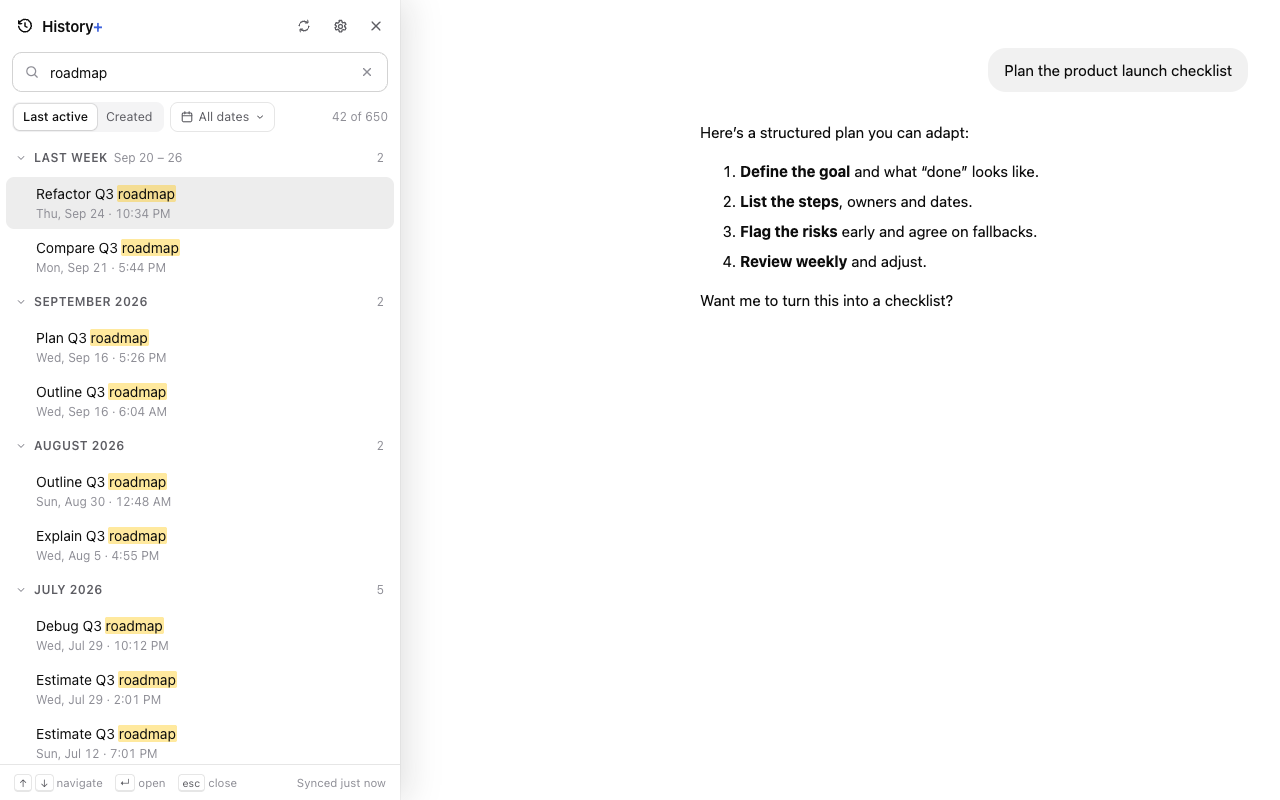
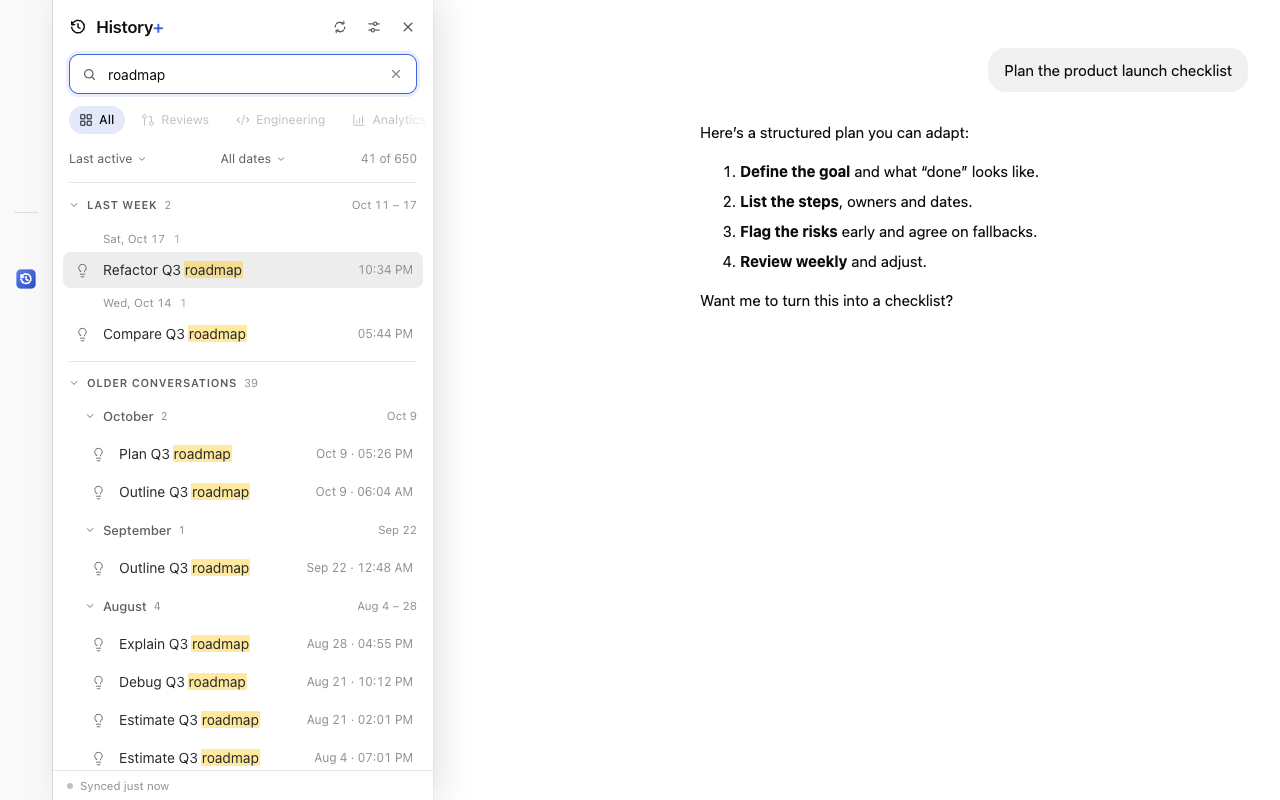
Release v0.2.0
- Bump the version to 0.2.0 (category filters, 12/24-hour times, the
  regrouped list and sharper category icons). The manifest differs from
  0.1.1 only in its version: same permissions and host access.
- Regenerate the Web Store screenshots and marquee tile from the new design,
  with synthetic data only.
- Store asset script: wait for hover fades after moving the pointer off the
  panel, so no chip looks half-selected in the timeline shot.
- Listing: describe "Older conversations", the category filters and the
  12/24-hour option; the reviewer notes now point at the sliders icon for
  Settings.

diff --git a/tests/e2e/store-assets.spec.ts b/tests/e2e/store-assets.spec.ts
@@ -16,7 +16,9 @@ test('screenshots (1280x800)', async ({ page, server }) => {
   await page.goto(`https://chatgpt.com/c/${recent.id}`)
   await openPanel(page)
   await waitForSync(page, 650)
+  // The panel opens under the pointer; move it off and let hover fades finish, so no chip looks half-selected.
   await page.mouse.move(1000, 700)
+  await page.waitForTimeout(300)
   await page.screenshot({ path: out('screenshot-1-timeline.png') })
 
   await search(page).fill('roadmap')

diff --git a/store/LISTING.md b/store/LISTING.md
@@ -31,10 +31,11 @@ Find any old ChatGPT conversation by when it happened.
 You remember discussing something "around the third week of August" but not what the chat was called. ChatGPT's sidebar keeps only recent chats close at hand, and its search needs the right words. History+ adds the missing piece: time.
 
 WHAT YOU GET
-• Your whole history, grouped by date: Today, Yesterday, This week, Last week, then months and years, with week and day dividers.
+• Your whole history, grouped by date: Today, Yesterday, This week, Last week, then Older conversations month by month, with week and day dividers.
+• Category filters: Reviews, Engineering, Analytics, Product, Payments, Writing. A small icon on each chat shows its kind at a glance, worked out on your device from the title.
 • Dates beside every conversation in ChatGPT's own sidebar.
 • Instant search that understands dates: "roadmap last month", "around sep 14", "invoice in aug", "created:2026-07".
-• Switch between Last active and Created dates; hover any chat to see both.
+• Switch between Last active and Created dates; hover any chat to see both. 12- or 24-hour times.
 • Keyboard-first: ⇧⌘H / Ctrl+Shift+H to open, ↑ ↓ to move, Enter to open, Esc to close.
 • Opens beside the chat, so you can click through candidates without losing your place.
 • Works with personal and Team/Business workspaces (separate caches), in light and dark mode.
@@ -112,6 +113,6 @@ Paste into the "Test instructions" field if the dashboard offers it, otherwise i
 2. Open History+ from the "History+" item in ChatGPT's left sidebar, with Ctrl+Shift+H (⇧⌘H on macOS), or with the toolbar icon.
 3. The panel syncs conversation titles and dates (progress is shown), then groups them by date.
 4. Type in the search box, e.g. a word from a chat title, or "last week". Click a result to open that conversation.
-5. Settings (gear icon) → "Clear local data" removes everything the extension stored.
+5. Settings (sliders icon, top right) → "Clear local data" removes everything the extension stored.
 The extension only runs on chatgpt.com and makes requests only to chatgpt.com.
 ```
